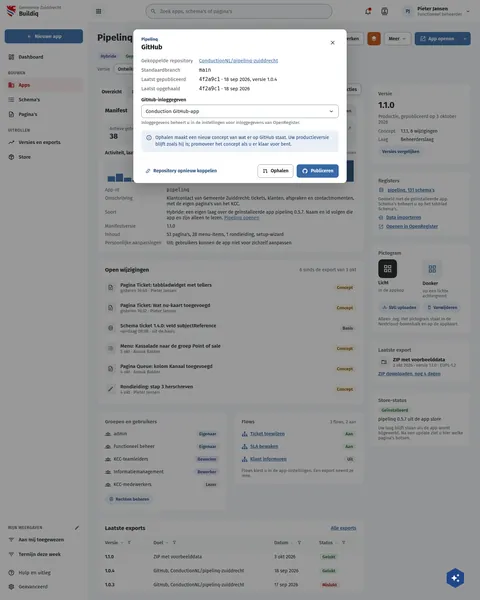
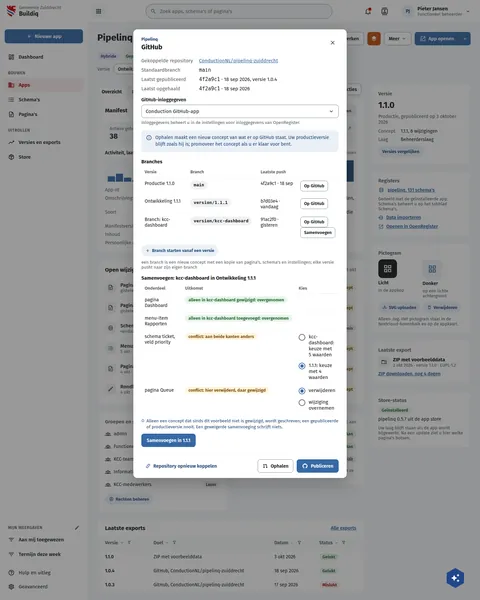
feat(screens): branches and merge on BqGitHub
Rows: lc-git-branching.

Assisted-by: ClaudeCode:claude-fable-5-1

Changed region(s): [[0.25, 0.27, 0.75, 0.81]]

diff --git a/preview/screens/boards/BqGitHub.html b/preview/screens/boards/BqGitHub.html
@@ -290,6 +290,7 @@ a{color:var(--sc-primary, #3669a5)}a:hover{color:var(--sc-primary-deep, #234a78)
         <button type="button" aria-label="Sluiten" style="flex: none; width: 36px; height: 36px; border: 0; border-radius: 18px; background: transparent; color: var(--sc-work-text, #3d4047); display: flex; align-items: center; justify-content: center; padding: 0"><svg width="20" height="20" viewbox="0 0 24 24" fill="currentColor"><path d="M19,6.41L17.59,5L12,10.59L6.41,5L5,6.41L10.59,12L5,17.59L6.41,19L12,13.41L17.59,19L19,17.59L13.41,12L19,6.41Z"></path></svg></button>
       </div>
       <div style="padding: 16px 24px 20px; display: flex; flex-direction: column; gap: 16px"><dl style="margin: 0; display: grid; grid-template-columns: max-content 1fr; gap: 10px 18px; font-size: 15px"><dt style="color: var(--sc-work-muted, #5e6168)">Gekoppelde repository</dt><dd style="margin: 0"><a href="#">ConductionNL/pipelinq-zuiddrecht</a></dd><dt style="color: var(--sc-work-muted, #5e6168)">Standaardbranch</dt><dd style="margin: 0"><code style="font-family: ui-monospace, Menlo, monospace">main</code></dd><dt style="color: var(--sc-work-muted, #5e6168)">Laatst gepubliceerd</dt><dd style="margin: 0"><code style="font-family: ui-monospace, Menlo, monospace">4f2a9c1</code> · 18 sep 2026, versie 1.0.4</dd><dt style="color: var(--sc-work-muted, #5e6168)">Laatst opgehaald</dt><dd style="margin: 0"><code style="font-family: ui-monospace, Menlo, monospace">4f2a9c1</code> · 18 sep 2026</dd></dl><div style="display: flex; flex-direction: column; gap: 6px; min-width: 0"><label for="gh-cred" style="font-size: 14px; font-weight: 600">GitHub-inloggegeven</label><button type="button" id="gh-cred" aria-haspopup="listbox" style="display: flex; align-items: center; justify-content: space-between; gap: 8px; height: 40px; box-sizing: border-box; width: 100%; border: 1px solid var(--sc-work-field, #828a95); border-radius: 8px; padding: 0 12px; background: #ffffff; font: 400 15px var(--sc-font, 'Fira Sans'), sans-serif; color: var(--sc-work-ink, #1b1c1d); text-align: left"><span style="overflow: hidden; text-overflow: ellipsis; white-space: nowrap">Conduction GitHub-app</span><svg width="18" height="18" viewbox="0 0 24 24" fill="currentColor"><path d="M7.41,8.58L12,13.17L16.59,8.58L18,10L12,16L6,10L7.41,8.58Z"></path></svg></button><span style="font-size: 13px; color: var(--sc-work-muted, #5e6168)">Inloggegevens beheert u in de instellingen voor inloggegevens van OpenRegister.</span></div><div style="display: flex; gap: 10px; align-items: flex-start; padding: 12px 14px; border-radius: 10px; background: var(--sc-primary-light, #eaf0f7); color: var(--sc-primary-deep, #234a78); font-size: 14px; line-height: 1.45"><svg width="18" height="18" viewbox="0 0 24 24" fill="currentColor" style="flex: none; margin-top: 1px"><path d="M11,9H13V7H11M12,20C7.59,20 4,16.41 4,12C4,7.59 7.59,4 12,4C16.41,4 20,7.59 20,12C20,16.41 16.41,20 12,20M12,2A10,10 0 0,0 2,12A10,10 0 0,0 12,22A10,10 0 0,0 22,12A10,10 0 0,0 12,2M11,17H13V11H11V17Z"></path></svg><span>Ophalen maakt een nieuw concept van wat er op GitHub staat. Uw productieversie blijft zoals hij is; promoveer het concept als u er klaar voor bent.</span></div></div>
+      <div style="padding: 0 24px 20px; display: flex; flex-direction: column; gap: 16px"><fieldset style="border: 0; margin: 0; padding: 0; display: flex; flex-direction: column; gap: 10px"><legend style="font-size: 15px; font-weight: 700; padding: 0 0 6px">Branches</legend><table style="width: 100%; border-collapse: collapse"><thead><tr><th scope="col" style="text-align: left; padding: 8px 10px; font-size: 13px; color: var(--sc-work-muted, #5e6168); font-weight: 600; border-bottom: 1px solid var(--sc-work-line, #e4e6ea); width: 170px">Versie</th><th scope="col" style="text-align: left; padding: 8px 10px; font-size: 13px; color: var(--sc-work-muted, #5e6168); font-weight: 600; border-bottom: 1px solid var(--sc-work-line, #e4e6ea); width: 200px">Branch</th><th scope="col" style="text-align: left; padding: 8px 10px; font-size: 13px; color: var(--sc-work-muted, #5e6168); font-weight: 600; border-bottom: 1px solid var(--sc-work-line, #e4e6ea); width: 170px">Laatste push</th><th scope="col" style="text-align: left; padding: 8px 10px; font-size: 13px; color: var(--sc-work-muted, #5e6168); font-weight: 600; border-bottom: 1px solid var(--sc-work-line, #e4e6ea)"></th></tr></thead><tbody><tr><td style="padding: 10px 10px; font-size: 14px; border-bottom: 1px solid var(--sc-work-soft, #eef0f3); vertical-align: top">Productie 1.1.0</td><td style="padding: 10px 10px; font-size: 14px; border-bottom: 1px solid var(--sc-work-soft, #eef0f3); vertical-align: top"><span style="display: inline-flex; align-items: center; height: 26px; padding: 0 10px; border-radius: 13px; background: var(--sc-work-chip, #f0f1f3); color: var(--sc-work-ink, #1b1c1d); font-size: 13px; font-weight: 600; font-family: ui-monospace, Menlo, monospace; white-space: nowrap">main</span></td><td style="padding: 10px 10px; font-size: 14px; border-bottom: 1px solid var(--sc-work-soft, #eef0f3); vertical-align: top">4f2a9c1 · 18 sep</td><td style="padding: 10px 10px; font-size: 14px; border-bottom: 1px solid var(--sc-work-soft, #eef0f3); vertical-align: top"><button type="button" style="display: inline-flex; align-items: center; gap: 6px; height: 32px; padding: 0 10px; border: 1px solid var(--sc-work-field, #828a95); border-radius: 8px; background: #ffffff; font: 600 13px var(--sc-font, 'Fira Sans'), sans-serif; color: var(--sc-work-ink, #1b1c1d); white-space: nowrap">Op GitHub</button></td></tr><tr><td style="padding: 10px 10px; font-size: 14px; border-bottom: 1px solid var(--sc-work-soft, #eef0f3); vertical-align: top">Ontwikkeling 1.1.1</td><td style="padding: 10px 10px; font-size: 14px; border-bottom: 1px solid var(--sc-work-soft, #eef0f3); vertical-align: top"><span style="display: inline-flex; align-items: center; height: 26px; padding: 0 10px; border-radius: 13px; background: var(--sc-work-chip, #f0f1f3); color: var(--sc-work-ink, #1b1c1d); font-size: 13px; font-weight: 600; font-family: ui-monospace, Menlo, monospace; white-space: nowrap">version/1.1.1</span></td><td style="padding: 10px 10px; font-size: 14px; border-bottom: 1px solid var(--sc-work-soft, #eef0f3); vertical-align: top">b7d03e4 · vandaag</td><td style="padding: 10px 10px; font-size: 14px; border-bottom: 1px solid var(--sc-work-soft, #eef0f3); vertical-align: top"><button type="button" style="display: inline-flex; align-items: center; gap: 6px; height: 32px; padding: 0 10px; border: 1px solid var(--sc-work-field, #828a95); border-radius: 8px; background: #ffffff; font: 600 13px var(--sc-font, 'Fira Sans'), sans-serif; color: var(--sc-work-ink, #1b1c1d); white-space: nowrap">Op GitHub</button></td></tr><tr><td style="padding: 10px 10px; font-size: 14px; border-bottom: 1px solid var(--sc-work-soft, #eef0f3); vertical-align: top">Branch: kcc-dashboard</td><td style="padding: 10px 10px; font-size: 14px; border-bottom: 1px solid var(--sc-work-soft, #eef0f3); vertical-align: top"><span style="display: inline-flex; align-items: center; height: 26px; padding: 0 10px; border-radius: 13px; background: var(--sc-work-chip, #f0f1f3); color: var(--sc-work-ink, #1b1c1d); font-size: 13px; font-weight: 600; font-family: ui-monospace, Menlo, monospace; white-space: nowrap">version/kcc-dashboard</span></td><td style="padding: 10px 10px; font-size: 14px; border-bottom: 1px solid var(--sc-work-soft, #eef0f3); vertical-align: top">91ac2f0 · gisteren</td><td style="padding: 10px 10px; font-size: 14px; border-bottom: 1px solid var(--sc-work-soft, #eef0f3); vertical-align: top"><button type="button" style="display: inline-flex; align-items: center; gap: 6px; height: 32px; padding: 0 10px; border: 1px solid var(--sc-work-field, #828a95); border-radius: 8px; background: #ffffff; font: 600 13px var(--sc-font, 'Fira Sans'), sans-serif; color: var(--sc-work-ink, #1b1c1d); white-space: nowrap">Op GitHub</button> <button type="button" style="display: inline-flex; align-items: center; gap: 6px; height: 32px; padding: 0 10px; border: 1px solid var(--sc-work-field, #828a95); border-radius: 8px; background: #ffffff; font: 600 13px var(--sc-font, 'Fira Sans'), sans-serif; color: var(--sc-work-ink, #1b1c1d); white-space: nowrap">Samenvoegen</button></td></tr></tbody></table><div style="display: flex; flex-wrap: wrap; gap: 10px; align-items: center"><button type="button" style="align-self: flex-start; display: inline-flex; align-items: center; gap: 6px; height: 34px; padding: 0 12px; border: 0; border-radius: 17px; background: var(--sc-primary-light, #eaf0f7); color: var(--sc-primary-deep, #234a78); font: 600 13px var(--sc-font, 'Fira Sans'), sans-serif; white-space: nowrap"><svg width="14" height="14" viewbox="0 0 24 24" fill="currentColor"><path d="M19,13H13V19H11V13H5V11H11V5H13V11H19V13Z"></path></svg>Branch starten vanaf een versie</button><span style="font-size: 13px; color: var(--sc-work-muted, #5e6168)">een branch is een nieuw concept met een kopie van pagina's, schema's en instellingen; elke versie pusht naar zijn eigen branch</span></div></fieldset><fieldset style="border: 0; margin: 0; padding: 0; display: flex; flex-direction: column; gap: 10px"><legend style="font-size: 15px; font-weight: 700; padding: 0 0 6px">Samenvoegen: kcc-dashboard in Ontwikkeling 1.1.1</legend><table style="width: 100%; border-collapse: collapse"><thead><tr><th scope="col" style="text-align: left; padding: 8px 10px; font-size: 13px; color: var(--sc-work-muted, #5e6168); font-weight: 600; border-bottom: 1px solid var(--sc-work-line, #e4e6ea); width: 200px">Onderdeel</th><th scope="col" style="text-align: left; padding: 8px 10px; font-size: 13px; color: var(--sc-work-muted, #5e6168); font-weight: 600; border-bottom: 1px solid var(--sc-work-line, #e4e6ea); width: 300px">Uitkomst</th><th scope="col" style="text-align: left; padding: 8px 10px; font-size: 13px; color: var(--sc-work-muted, #5e6168); font-weight: 600; border-bottom: 1px solid var(--sc-work-line, #e4e6ea)">Kies</th></tr></thead><tbody><tr><td style="padding: 10px 10px; font-size: 14px; border-bottom: 1px solid var(--sc-work-soft, #eef0f3); vertical-align: top">pagina Dashboard</td><td style="padding: 10px 10px; font-size: 14px; border-bottom: 1px solid var(--sc-work-soft, #eef0f3); vertical-align: top"><span style="padding: 3px 10px; border-radius: 12px; background: #e7f3ea; color: #1e6b2a; font-size: 13px; font-weight: 600; white-space: nowrap">alleen in kcc-dashboard gewijzigd: overgenomen</span></td><td style="padding: 10px 10px; font-size: 14px; border-bottom: 1px solid var(--sc-work-soft, #eef0f3); vertical-align: top"></td></tr><tr><td style="padding: 10px 10px; font-size: 14px; border-bottom: 1px solid var(--sc-work-soft, #eef0f3); vertical-align: top">menu-item Rapporten</td><td style="padding: 10px 10px; font-size: 14px; border-bottom: 1px solid var(--sc-work-soft, #eef0f3); vertical-align: top"><span style="padding: 3px 10px; border-radius: 12px; background: #e7f3ea; color: #1e6b2a; font-size: 13px; font-weight: 600; white-space: nowrap">alleen in kcc-dashboard toegevoegd: overgenomen</span></td><td style="padding: 10px 10px; font-size: 14px; border-bottom: 1px solid var(--sc-work-soft, #eef0f3); vertical-align: top"></td></tr><tr><td style="padding: 10px 10px; font-size: 14px; border-bottom: 1px solid var(--sc-work-soft, #eef0f3); vertical-align: top">schema ticket, veld priority</td><td style="padding: 10px 10px; font-size: 14px; border-bottom: 1px solid var(--sc-work-soft, #eef0f3); vertical-align: top"><span style="padding: 3px 10px; border-radius: 12px; background: #fff4de; color: #7a4f00; font-size: 13px; font-weight: 600; white-space: nowrap">conflict: aan beide kanten anders</span></td><td style="padding: 10px 10px; font-size: 14px; border-bottom: 1px solid var(--sc-work-soft, #eef0f3); vertical-align: top"><div style="display: flex; flex-wrap: wrap; gap: 14px; align-items: flex-end"><label for="f1" style="display: flex; gap: 10px; align-items: flex-start; font-size: 15px; position: relative"><input id="f1" type="radio" name="m1" style="position: absolute; opacity: 0; width: 20px; height: 20px; margin: 0"><span aria-hidden="true" style="flex: none; width: 20px; height: 20px; box-sizing: border-box; border-radius: 10px; border: 2px solid var(--sc-work-muted, #5e6168); display: flex; align-items: center; justify-content: center; margin-top: 1px"></span><span>kcc-dashboard: keuze met 5 waarden</span></label><label for="f2" style="display: flex; gap: 10px; align-items: flex-start; font-size: 15px; position: relative"><input id="f2" type="radio" name="m1" checked style="position: absolute; opacity: 0; width: 20px; height: 20px; margin: 0"><span aria-hidden="true" style="flex: none; width: 20px; height: 20px; box-sizing: border-box; border-radius: 10px; border: 2px solid var(--sc-primary, #3669a5); display: flex; align-items: center; justify-content: center; margin-top: 1px"><span style="width: 10px; height: 10px; border-radius: 5px; background: var(--sc-primary, #3669a5)"></span></span><span>1.1.1: keuze met 4 waarden</span></label></div></td></tr><tr><td style="padding: 10px 10px; font-size: 14px; border-bottom: 1px solid var(--sc-work-soft, #eef0f3); vertical-align: top">pagina Queue</td><td style="padding: 10px 10px; font-size: 14px; border-bottom: 1px solid var(--sc-work-soft, #eef0f3); vertical-align: top"><span style="padding: 3px 10px; border-radius: 12px; background: #fff4de; color: #7a4f00; font-size: 13px; font-weight: 600; white-space: nowrap">conflict: hier verwijderd, daar gewijzigd</span></td><td style="padding: 10px 10px; font-size: 14px; border-bottom: 1px solid var(--sc-work-soft, #eef0f3); vertical-align: top"><div style="display: flex; flex-wrap: wrap; gap: 14px; align-items: flex-end"><label for="f3" style="display: flex; gap: 10px; align-items: flex-start; font-size: 15px; position: relative"><input id="f3" type="radio" name="m2" checked style="position: absolute; opacity: 0; width: 20px; height: 20px; margin: 0"><span aria-hidden="true" style="flex: none; width: 20px; height: 20px; box-sizing: border-box; border-radius: 10px; border: 2px solid var(--sc-primary, #3669a5); display: flex; align-items: center; justify-content: center; margin-top: 1px"><span style="width: 10px; height: 10px; border-radius: 5px; background: var(--sc-primary, #3669a5)"></span></span><span>verwijderen</span></label><label for="f4" style="display: flex; gap: 10px; align-items: flex-start; font-size: 15px; position: relative"><input id="f4" type="radio" name="m2" style="position: absolute; opacity: 0; width: 20px; height: 20px; margin: 0"><span aria-hidden="true" style="flex: none; width: 20px; height: 20px; box-sizing: border-box; border-radius: 10px; border: 2px solid var(--sc-work-muted, #5e6168); display: flex; align-items: center; justify-content: center; margin-top: 1px"></span><span>wijziging overnemen</span></label></div></td></tr></tbody></table><div style="display: flex; gap: 6px; align-items: flex-start; font-size: 13px; line-height: 1.45; color: var(--sc-primary-deep, #234a78)"><svg width="16" height="16" viewbox="0 0 24 24" fill="currentColor"><path d="M11,9H13V7H11M12,20C7.59,20 4,16.41 4,12C4,7.59 7.59,4 12,4C16.41,4 20,7.59 20,12C20,16.41 16.41,20 12,20M12,2A10,10 0 0,0 2,12A10,10 0 0,0 12,22A10,10 0 0,0 22,12A10,10 0 0,0 12,2M11,17H13V11H11V17Z"></path></svg><span>Alleen een concept dat sinds dit voorbeeld niet is gewijzigd, wordt geschreven; een gepubliceerde of productieversie nooit. Een geweigerde samenvoeging schrijft niets.</span></div><div style="display: flex; flex-wrap: wrap; gap: 10px; align-items: center"><button type="button" style="display: inline-flex; align-items: center; gap: 8px; height: 40px; padding: 0 16px; border: 0; border-radius: 8px; background: var(--sc-primary, #3669a5); color: #ffffff; font: 600 14px var(--sc-font, 'Fira Sans'), sans-serif; white-space: nowrap">Samenvoegen in 1.1.1</button></div></fieldset></div>
       <div style="display: flex; flex-wrap: wrap; justify-content: flex-end; align-items: center; gap: 10px; padding: 16px 24px; border-top: 1px solid var(--sc-work-soft, #eef0f3)"><button type="button" style="display: inline-flex; align-items: center; gap: 8px; height: 40px; padding: 0 12px; border: 0; border-radius: 8px; background: transparent; font: 600 14px var(--sc-font, 'Fira Sans'), sans-serif; color: var(--sc-primary-deep, #234a78); white-space: nowrap"><svg width="16" height="16" viewbox="0 0 24 24" fill="currentColor"><path d="M10.59,13.41C11,13.8 11,14.44 10.59,14.83C10.2,15.22 9.56,15.22 9.17,14.83C7.22,12.88 7.22,9.71 9.17,7.76V7.76L12.71,4.22C14.66,2.27 17.83,2.27 19.78,4.22C21.73,6.17 21.73,9.34 19.78,11.29L18.29,12.78C18.3,11.96 18.17,11.14 17.89,10.36L18.36,9.88C19.54,8.71 19.54,6.81 18.36,5.64C17.19,4.46 15.29,4.46 14.12,5.64L10.59,9.17C9.41,10.34 9.41,12.24 10.59,13.41M13.41,9.17C13.8,8.78 14.44,8.78 14.83,9.17C16.78,11.12 16.78,14.29 14.83,16.24V16.24L11.29,19.78C9.34,21.73 6.17,21.73 4.22,19.78C2.27,17.83 2.27,14.66 4.22,12.71L5.71,11.22C5.7,12.04 5.83,12.86 6.11,13.65L5.64,14.12C4.46,15.29 4.46,17.19 5.64,18.36C6.81,19.54 8.71,19.54 9.88,18.36L13.41,14.83C14.59,13.66 14.59,11.76 13.41,10.59C13,10.2 13,9.56 13.41,9.17Z"></path></svg>Repository opnieuw koppelen</button><span style="flex: 1"></span><button type="button" style="display: inline-flex; align-items: center; gap: 8px; height: 40px; padding: 0 14px; box-sizing: border-box; border: 1px solid var(--sc-work-field, #828a95); border-radius: 8px; background: #ffffff; font: 600 14px var(--sc-font, 'Fira Sans'), sans-serif; color: var(--sc-work-ink, #1b1c1d); text-decoration: none; white-space: nowrap"><svg width="16" height="16" viewbox="0 0 24 24" fill="currentColor"><path d="M6,3A3,3 0 0,1 9,6C9,7.31 8.17,8.42 7,8.83V15.17C8.17,15.58 9,16.69 9,18A3,3 0 0,1 6,21A3,3 0 0,1 3,18C3,16.69 3.83,15.58 5,15.17V8.83C3.83,8.42 3,7.31 3,6A3,3 0 0,1 6,3M6,5A1,1 0 0,0 5,6A1,1 0 0,0 6,7A1,1 0 0,0 7,6A1,1 0 0,0 6,5M6,17A1,1 0 0,0 5,18A1,1 0 0,0 6,19A1,1 0 0,0 7,18A1,1 0 0,0 6,17M21,18A3,3 0 0,1 18,21A3,3 0 0,1 15,18C15,16.69 15.83,15.58 17,15.17V7H15V10.25L10.75,6L15,1.75V5H17A2,2 0 0,1 19,7V15.17C20.17,15.58 21,16.69 21,18M18,17A1,1 0 0,0 17,18A1,1 0 0,0 18,19A1,1 0 0,0 19,18A1,1 0 0,0 18,17Z"></path></svg>Ophalen</button><button type="button" style="display: inline-flex; align-items: center; gap: 8px; height: 40px; padding: 0 16px; border: 0; border-radius: 8px; background: var(--sc-primary, #3669a5); color: #ffffff; font: 600 14px var(--sc-font, 'Fira Sans'), sans-serif; white-space: nowrap"><svg width="18" height="18" viewbox="0 0 24 24" fill="currentColor"><path d="M12,2A10,10 0 0,0 2,12C2,16.42 4.87,20.17 8.84,21.5C9.34,21.58 9.5,21.27 9.5,21C9.5,20.77 9.5,20.14 9.5,19.31C6.73,19.91 6.14,17.97 6.14,17.97C5.68,16.81 5.03,16.5 5.03,16.5C4.12,15.88 5.1,15.9 5.1,15.9C6.1,15.97 6.63,16.93 6.63,16.93C7.5,18.45 8.97,18 9.54,17.76C9.63,17.11 9.89,16.67 10.17,16.42C7.95,16.17 5.62,15.31 5.62,11.5C5.62,10.39 6,9.5 6.65,8.79C6.55,8.54 6.2,7.5 6.75,6.15C6.75,6.15 7.59,5.88 9.5,7.17C10.29,6.95 11.15,6.84 12,6.84C12.85,6.84 13.71,6.95 14.5,7.17C16.41,5.88 17.25,6.15 17.25,6.15C17.8,7.5 17.45,8.54 17.35,8.79C18,9.5 18.38,10.39 18.38,11.5C18.38,15.32 16.04,16.16 13.81,16.41C14.17,16.72 14.5,17.33 14.5,18.26C14.5,19.6 14.5,20.68 14.5,21C14.5,21.27 14.66,21.59 15.17,21.5C19.14,20.16 22,16.42 22,12A10,10 0 0,0 12,2Z"></path></svg>Publiceren</button></div>
     </div>
   </div>

diff --git a/screens-src/zuiddrecht/BqGitHub.dc.html b/screens-src/zuiddrecht/BqGitHub.dc.html
@@ -129,12 +129,13 @@ a{color:#3669a5}a:hover{color:#234a78}
         <button type="button" aria-label="Sluiten" style="flex: none; width: 36px; height: 36px; border: 0; border-radius: 18px; background: transparent; color: #3d4047; display: flex; align-items: center; justify-content: center; padding: 0"><svg width="20" height="20" viewBox="0 0 24 24" fill="currentColor"><path d="M19,6.41L17.59,5L12,10.59L6.41,5L5,6.41L10.59,12L5,17.59L6.41,19L12,13.41L17.59,19L19,17.59L13.41,12L19,6.41Z"></path></svg></button>
       </div>
       <div style="padding: 16px 24px 20px; display: flex; flex-direction: column; gap: 16px"><dl style="margin: 0; display: grid; grid-template-columns: max-content 1fr; gap: 10px 18px; font-size: 15px"><dt style="color: #5e6168">Gekoppelde repository</dt><dd style="margin: 0"><a href="#">ConductionNL/pipelinq-zuiddrecht</a></dd><dt style="color: #5e6168">Standaardbranch</dt><dd style="margin: 0"><code style="font-family: ui-monospace, Menlo, monospace">main</code></dd><dt style="color: #5e6168">Laatst gepubliceerd</dt><dd style="margin: 0"><code style="font-family: ui-monospace, Menlo, monospace">4f2a9c1</code> · 18 sep 2026, versie 1.0.4</dd><dt style="color: #5e6168">Laatst opgehaald</dt><dd style="margin: 0"><code style="font-family: ui-monospace, Menlo, monospace">4f2a9c1</code> · 18 sep 2026</dd></dl><div style="display: flex; flex-direction: column; gap: 6px; min-width: 0"><label for="gh-cred" style="font-size: 14px; font-weight: 600">GitHub-inloggegeven</label><button type="button" id="gh-cred" aria-haspopup="listbox" style="display: flex; align-items: center; justify-content: space-between; gap: 8px; height: 40px; box-sizing: border-box; width: 100%; border: 1px solid #828a95; border-radius: 8px; padding: 0 12px; background: #ffffff; font: 400 15px 'Fira Sans', sans-serif; color: #1b1c1d; text-align: left"><span style="overflow: hidden; text-overflow: ellipsis; white-space: nowrap">Conduction GitHub-app</span><svg width="18" height="18" viewBox="0 0 24 24" fill="currentColor"><path d="M7.41,8.58L12,13.17L16.59,8.58L18,10L12,16L6,10L7.41,8.58Z"></path></svg></button><span style="font-size: 13px; color: #5e6168">Inloggegevens beheert u in de instellingen voor inloggegevens van OpenRegister.</span></div><div style="display: flex; gap: 10px; align-items: flex-start; padding: 12px 14px; border-radius: 10px; background: #eaf0f7; color: #234a78; font-size: 14px; line-height: 1.45"><svg width="18" height="18" viewBox="0 0 24 24" fill="currentColor" style="flex: none; margin-top: 1px"><path d="M11,9H13V7H11M12,20C7.59,20 4,16.41 4,12C4,7.59 7.59,4 12,4C16.41,4 20,7.59 20,12C20,16.41 16.41,20 12,20M12,2A10,10 0 0,0 2,12A10,10 0 0,0 12,22A10,10 0 0,0 22,12A10,10 0 0,0 12,2M11,17H13V11H11V17Z"></path></svg><span>Ophalen maakt een nieuw concept van wat er op GitHub staat. Uw productieversie blijft zoals hij is; promoveer het concept als u er klaar voor bent.</span></div></div>
+      <div style="padding: 0 24px 20px; display: flex; flex-direction: column; gap: 16px"><fieldset style="border: 0; margin: 0; padding: 0; display: flex; flex-direction: column; gap: 10px"><legend style="font-size: 15px; font-weight: 700; padding: 0 0 6px">Branches</legend><table style="width: 100%; border-collapse: collapse"><thead><tr><th scope="col" style="text-align: left; padding: 8px 10px; font-size: 13px; color: #5e6168; font-weight: 600; border-bottom: 1px solid #e4e6ea; width: 170px">Versie</th><th scope="col" style="text-align: left; padding: 8px 10px; font-size: 13px; color: #5e6168; font-weight: 600; border-bottom: 1px solid #e4e6ea; width: 200px">Branch</th><th scope="col" style="text-align: left; padding: 8px 10px; font-size: 13px; color: #5e6168; font-weight: 600; border-bottom: 1px solid #e4e6ea; width: 170px">Laatste push</th><th scope="col" style="text-align: left; padding: 8px 10px; font-size: 13px; color: #5e6168; font-weight: 600; border-bottom: 1px solid #e4e6ea"></th></tr></thead><tbody><tr><td style="padding: 10px 10px; font-size: 14px; border-bottom: 1px solid #eef0f3; vertical-align: top">Productie 1.1.0</td><td style="padding: 10px 10px; font-size: 14px; border-bottom: 1px solid #eef0f3; vertical-align: top"><span style="display: inline-flex; align-items: center; height: 26px; padding: 0 10px; border-radius: 13px; background: #f0f1f3; color: #1b1c1d; font-size: 13px; font-weight: 600; font-family: ui-monospace, Menlo, monospace; white-space: nowrap">main</span></td><td style="padding: 10px 10px; font-size: 14px; border-bottom: 1px solid #eef0f3; vertical-align: top">4f2a9c1 · 18 sep</td><td style="padding: 10px 10px; font-size: 14px; border-bottom: 1px solid #eef0f3; vertical-align: top"><button type="button" style="display: inline-flex; align-items: center; gap: 6px; height: 32px; padding: 0 10px; border: 1px solid #828a95; border-radius: 8px; background: #ffffff; font: 600 13px 'Fira Sans', sans-serif; color: #1b1c1d; white-space: nowrap">Op GitHub</button></td></tr><tr><td style="padding: 10px 10px; font-size: 14px; border-bottom: 1px solid #eef0f3; vertical-align: top">Ontwikkeling 1.1.1</td><td style="padding: 10px 10px; font-size: 14px; border-bottom: 1px solid #eef0f3; vertical-align: top"><span style="display: inline-flex; align-items: center; height: 26px; padding: 0 10px; border-radius: 13px; background: #f0f1f3; color: #1b1c1d; font-size: 13px; font-weight: 600; font-family: ui-monospace, Menlo, monospace; white-space: nowrap">version/1.1.1</span></td><td style="padding: 10px 10px; font-size: 14px; border-bottom: 1px solid #eef0f3; vertical-align: top">b7d03e4 · vandaag</td><td style="padding: 10px 10px; font-size: 14px; border-bottom: 1px solid #eef0f3; vertical-align: top"><button type="button" style="display: inline-flex; align-items: center; gap: 6px; height: 32px; padding: 0 10px; border: 1px solid #828a95; border-radius: 8px; background: #ffffff; font: 600 13px 'Fira Sans', sans-serif; color: #1b1c1d; white-space: nowrap">Op GitHub</button></td></tr><tr><td style="padding: 10px 10px; font-size: 14px; border-bottom: 1px solid #eef0f3; vertical-align: top">Branch: kcc-dashboard</td><td style="padding: 10px 10px; font-size: 14px; border-bottom: 1px solid #eef0f3; vertical-align: top"><span style="display: inline-flex; align-items: center; height: 26px; padding: 0 10px; border-radius: 13px; background: #f0f1f3; color: #1b1c1d; font-size: 13px; font-weight: 600; font-family: ui-monospace, Menlo, monospace; white-space: nowrap">version/kcc-dashboard</span></td><td style="padding: 10px 10px; font-size: 14px; border-bottom: 1px solid #eef0f3; vertical-align: top">91ac2f0 · gisteren</td><td style="padding: 10px 10px; font-size: 14px; border-bottom: 1px solid #eef0f3; vertical-align: top"><button type="button" style="display: inline-flex; align-items: center; gap: 6px; height: 32px; padding: 0 10px; border: 1px solid #828a95; border-radius: 8px; background: #ffffff; font: 600 13px 'Fira Sans', sans-serif; color: #1b1c1d; white-space: nowrap">Op GitHub</button> <button type="button" style="display: inline-flex; align-items: center; gap: 6px; height: 32px; padding: 0 10px; border: 1px solid #828a95; border-radius: 8px; background: #ffffff; font: 600 13px 'Fira Sans', sans-serif; color: #1b1c1d; white-space: nowrap">Samenvoegen</button></td></tr></tbody></table><div style="display: flex; flex-wrap: wrap; gap: 10px; align-items: center"><button type="button" style="align-self: flex-start; display: inline-flex; align-items: center; gap: 6px; height: 34px; padding: 0 12px; border: 0; border-radius: 17px; background: #eaf0f7; color: #234a78; font: 600 13px 'Fira Sans', sans-serif; white-space: nowrap"><svg width="14" height="14" viewBox="0 0 24 24" fill="currentColor"><path d="M19,13H13V19H11V13H5V11H11V5H13V11H19V13Z"></path></svg>Branch starten vanaf een versie</button><span style="font-size: 13px; color: #5e6168">een branch is een nieuw concept met een kopie van pagina's, schema's en instellingen; elke versie pusht naar zijn eigen branch</span></div></fieldset><fieldset style="border: 0; margin: 0; padding: 0; display: flex; flex-direction: column; gap: 10px"><legend style="font-size: 15px; font-weight: 700; padding: 0 0 6px">Samenvoegen: kcc-dashboard in Ontwikkeling 1.1.1</legend><table style="width: 100%; border-collapse: collapse"><thead><tr><th scope="col" style="text-align: left; padding: 8px 10px; font-size: 13px; color: #5e6168; font-weight: 600; border-bottom: 1px solid #e4e6ea; width: 200px">Onderdeel</th><th scope="col" style="text-align: left; padding: 8px 10px; font-size: 13px; color: #5e6168; font-weight: 600; border-bottom: 1px solid #e4e6ea; width: 300px">Uitkomst</th><th scope="col" style="text-align: left; padding: 8px 10px; font-size: 13px; color: #5e6168; font-weight: 600; border-bottom: 1px solid #e4e6ea">Kies</th></tr></thead><tbody><tr><td style="padding: 10px 10px; font-size: 14px; border-bottom: 1px solid #eef0f3; vertical-align: top">pagina Dashboard</td><td style="padding: 10px 10px; font-size: 14px; border-bottom: 1px solid #eef0f3; vertical-align: top"><span style="padding: 3px 10px; border-radius: 12px; background: #e7f3ea; color: #1e6b2a; font-size: 13px; font-weight: 600; white-space: nowrap">alleen in kcc-dashboard gewijzigd: overgenomen</span></td><td style="padding: 10px 10px; font-size: 14px; border-bottom: 1px solid #eef0f3; vertical-align: top"></td></tr><tr><td style="padding: 10px 10px; font-size: 14px; border-bottom: 1px solid #eef0f3; vertical-align: top">menu-item Rapporten</td><td style="padding: 10px 10px; font-size: 14px; border-bottom: 1px solid #eef0f3; vertical-align: top"><span style="padding: 3px 10px; border-radius: 12px; background: #e7f3ea; color: #1e6b2a; font-size: 13px; font-weight: 600; white-space: nowrap">alleen in kcc-dashboard toegevoegd: overgenomen</span></td><td style="padding: 10px 10px; font-size: 14px; border-bottom: 1px solid #eef0f3; vertical-align: top"></td></tr><tr><td style="padding: 10px 10px; font-size: 14px; border-bottom: 1px solid #eef0f3; vertical-align: top">schema ticket, veld priority</td><td style="padding: 10px 10px; font-size: 14px; border-bottom: 1px solid #eef0f3; vertical-align: top"><span style="padding: 3px 10px; border-radius: 12px; background: #fff4de; color: #7a4f00; font-size: 13px; font-weight: 600; white-space: nowrap">conflict: aan beide kanten anders</span></td><td style="padding: 10px 10px; font-size: 14px; border-bottom: 1px solid #eef0f3; vertical-align: top"><div style="display: flex; flex-wrap: wrap; gap: 14px; align-items: flex-end"><label for="f1" style="display: flex; gap: 10px; align-items: flex-start; font-size: 15px; position: relative"><input id="f1" type="radio" name="m1" style="position: absolute; opacity: 0; width: 20px; height: 20px; margin: 0"><span aria-hidden="true" style="flex: none; width: 20px; height: 20px; box-sizing: border-box; border-radius: 10px; border: 2px solid #5e6168; display: flex; align-items: center; justify-content: center; margin-top: 1px"></span><span>kcc-dashboard: keuze met 5 waarden</span></label><label for="f2" style="display: flex; gap: 10px; align-items: flex-start; font-size: 15px; position: relative"><input id="f2" type="radio" name="m1" checked style="position: absolute; opacity: 0; width: 20px; height: 20px; margin: 0"><span aria-hidden="true" style="flex: none; width: 20px; height: 20px; box-sizing: border-box; border-radius: 10px; border: 2px solid #3669a5; display: flex; align-items: center; justify-content: center; margin-top: 1px"><span style="width: 10px; height: 10px; border-radius: 5px; background: #3669a5"></span></span><span>1.1.1: keuze met 4 waarden</span></label></div></td></tr><tr><td style="padding: 10px 10px; font-size: 14px; border-bottom: 1px solid #eef0f3; vertical-align: top">pagina Queue</td><td style="padding: 10px 10px; font-size: 14px; border-bottom: 1px solid #eef0f3; vertical-align: top"><span style="padding: 3px 10px; border-radius: 12px; background: #fff4de; color: #7a4f00; font-size: 13px; font-weight: 600; white-space: nowrap">conflict: hier verwijderd, daar gewijzigd</span></td><td style="padding: 10px 10px; font-size: 14px; border-bottom: 1px solid #eef0f3; vertical-align: top"><div style="display: flex; flex-wrap: wrap; gap: 14px; align-items: flex-end"><label for="f3" style="display: flex; gap: 10px; align-items: flex-start; font-size: 15px; position: relative"><input id="f3" type="radio" name="m2" checked style="position: absolute; opacity: 0; width: 20px; height: 20px; margin: 0"><span aria-hidden="true" style="flex: none; width: 20px; height: 20px; box-sizing: border-box; border-radius: 10px; border: 2px solid #3669a5; display: flex; align-items: center; justify-content: center; margin-top: 1px"><span style="width: 10px; height: 10px; border-radius: 5px; background: #3669a5"></span></span><span>verwijderen</span></label><label for="f4" style="display: flex; gap: 10px; align-items: flex-start; font-size: 15px; position: relative"><input id="f4" type="radio" name="m2" style="position: absolute; opacity: 0; width: 20px; height: 20px; margin: 0"><span aria-hidden="true" style="flex: none; width: 20px; height: 20px; box-sizing: border-box; border-radius: 10px; border: 2px solid #5e6168; display: flex; align-items: center; justify-content: center; margin-top: 1px"></span><span>wijziging overnemen</span></label></div></td></tr></tbody></table><div style="display: flex; gap: 6px; align-items: flex-start; font-size: 13px; line-height: 1.45; color: #234a78"><svg width="16" height="16" viewBox="0 0 24 24" fill="currentColor"><path d="M11,9H13V7H11M12,20C7.59,20 4,16.41 4,12C4,7.59 7.59,4 12,4C16.41,4 20,7.59 20,12C20,16.41 16.41,20 12,20M12,2A10,10 0 0,0 2,12A10,10 0 0,0 12,22A10,10 0 0,0 22,12A10,10 0 0,0 12,2M11,17H13V11H11V17Z"></path></svg><span>Alleen een concept dat sinds dit voorbeeld niet is gewijzigd, wordt geschreven; een gepubliceerde of productieversie nooit. Een geweigerde samenvoeging schrijft niets.</span></div><div style="display: flex; flex-wrap: wrap; gap: 10px; align-items: center"><button type="button" style="display: inline-flex; align-items: center; gap: 8px; height: 40px; padding: 0 16px; border: 0; border-radius: 8px; background: #3669a5; color: #ffffff; font: 600 14px 'Fira Sans', sans-serif; white-space: nowrap">Samenvoegen in 1.1.1</button></div></fieldset></div>
       <div style="display: flex; flex-wrap: wrap; justify-content: flex-end; align-items: center; gap: 10px; padding: 16px 24px; border-top: 1px solid #eef0f3"><button type="button" style="display: inline-flex; align-items: center; gap: 8px; height: 40px; padding: 0 12px; border: 0; border-radius: 8px; background: transparent; font: 600 14px 'Fira Sans', sans-serif; color: #234a78; white-space: nowrap"><svg width="16" height="16" viewBox="0 0 24 24" fill="currentColor"><path d="M10.59,13.41C11,13.8 11,14.44 10.59,14.83C10.2,15.22 9.56,15.22 9.17,14.83C7.22,12.88 7.22,9.71 9.17,7.76V7.76L12.71,4.22C14.66,2.27 17.83,2.27 19.78,4.22C21.73,6.17 21.73,9.34 19.78,11.29L18.29,12.78C18.3,11.96 18.17,11.14 17.89,10.36L18.36,9.88C19.54,8.71 19.54,6.81 18.36,5.64C17.19,4.46 15.29,4.46 14.12,5.64L10.59,9.17C9.41,10.34 9.41,12.24 10.59,13.41M13.41,9.17C13.8,8.78 14.44,8.78 14.83,9.17C16.78,11.12 16.78,14.29 14.83,16.24V16.24L11.29,19.78C9.34,21.73 6.17,21.73 4.22,19.78C2.27,17.83 2.27,14.66 4.22,12.71L5.71,11.22C5.7,12.04 5.83,12.86 6.11,13.65L5.64,14.12C4.46,15.29 4.46,17.19 5.64,18.36C6.81,19.54 8.71,19.54 9.88,18.36L13.41,14.83C14.59,13.66 14.59,11.76 13.41,10.59C13,10.2 13,9.56 13.41,9.17Z"></path></svg>Repository opnieuw koppelen</button><span style="flex: 1"></span><button type="button" style="display: inline-flex; align-items: center; gap: 8px; height: 40px; padding: 0 14px; box-sizing: border-box; border: 1px solid #828a95; border-radius: 8px; background: #ffffff; font: 600 14px 'Fira Sans', sans-serif; color: #1b1c1d; text-decoration: none; white-space: nowrap"><svg width="16" height="16" viewBox="0 0 24 24" fill="currentColor"><path d="M6,3A3,3 0 0,1 9,6C9,7.31 8.17,8.42 7,8.83V15.17C8.17,15.58 9,16.69 9,18A3,3 0 0,1 6,21A3,3 0 0,1 3,18C3,16.69 3.83,15.58 5,15.17V8.83C3.83,8.42 3,7.31 3,6A3,3 0 0,1 6,3M6,5A1,1 0 0,0 5,6A1,1 0 0,0 6,7A1,1 0 0,0 7,6A1,1 0 0,0 6,5M6,17A1,1 0 0,0 5,18A1,1 0 0,0 6,19A1,1 0 0,0 7,18A1,1 0 0,0 6,17M21,18A3,3 0 0,1 18,21A3,3 0 0,1 15,18C15,16.69 15.83,15.58 17,15.17V7H15V10.25L10.75,6L15,1.75V5H17A2,2 0 0,1 19,7V15.17C20.17,15.58 21,16.69 21,18M18,17A1,1 0 0,0 17,18A1,1 0 0,0 18,19A1,1 0 0,0 19,18A1,1 0 0,0 18,17Z"></path></svg>Ophalen</button><button type="button" style="display: inline-flex; align-items: center; gap: 8px; height: 40px; padding: 0 16px; border: 0; border-radius: 8px; background: #3669a5; color: #ffffff; font: 600 14px 'Fira Sans', sans-serif; white-space: nowrap"><svg width="18" height="18" viewBox="0 0 24 24" fill="currentColor"><path d="M12,2A10,10 0 0,0 2,12C2,16.42 4.87,20.17 8.84,21.5C9.34,21.58 9.5,21.27 9.5,21C9.5,20.77 9.5,20.14 9.5,19.31C6.73,19.91 6.14,17.97 6.14,17.97C5.68,16.81 5.03,16.5 5.03,16.5C4.12,15.88 5.1,15.9 5.1,15.9C6.1,15.97 6.63,16.93 6.63,16.93C7.5,18.45 8.97,18 9.54,17.76C9.63,17.11 9.89,16.67 10.17,16.42C7.95,16.17 5.62,15.31 5.62,11.5C5.62,10.39 6,9.5 6.65,8.79C6.55,8.54 6.2,7.5 6.75,6.15C6.75,6.15 7.59,5.88 9.5,7.17C10.29,6.95 11.15,6.84 12,6.84C12.85,6.84 13.71,6.95 14.5,7.17C16.41,5.88 17.25,6.15 17.25,6.15C17.8,7.5 17.45,8.54 17.35,8.79C18,9.5 18.38,10.39 18.38,11.5C18.38,15.32 16.04,16.16 13.81,16.41C14.17,16.72 14.5,17.33 14.5,18.26C14.5,19.6 14.5,20.68 14.5,21C14.5,21.27 14.66,21.59 15.17,21.5C19.14,20.16 22,16.42 22,12A10,10 0 0,0 12,2Z"></path></svg>Publiceren</button></div>
     </div>
   </div>
 </div>
 </x-dc>
-<script type="text/x-dc" data-dc-script data-props='{"$preview":{"width":1440,"height":1795}}'>
+<script type="text/x-dc" data-dc-script data-props='{"$preview":{"width":1440,"height":2600}}'>
 class Component extends DCLogic {
   renderVals() {
     const nav = [
